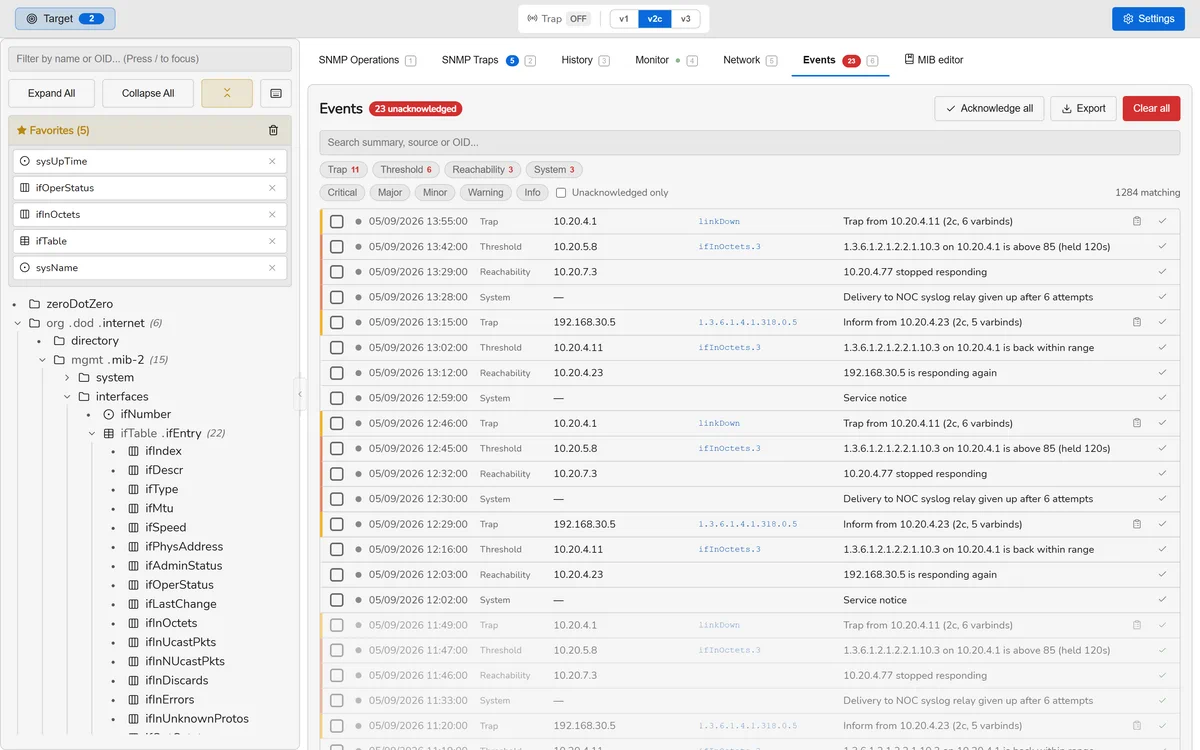
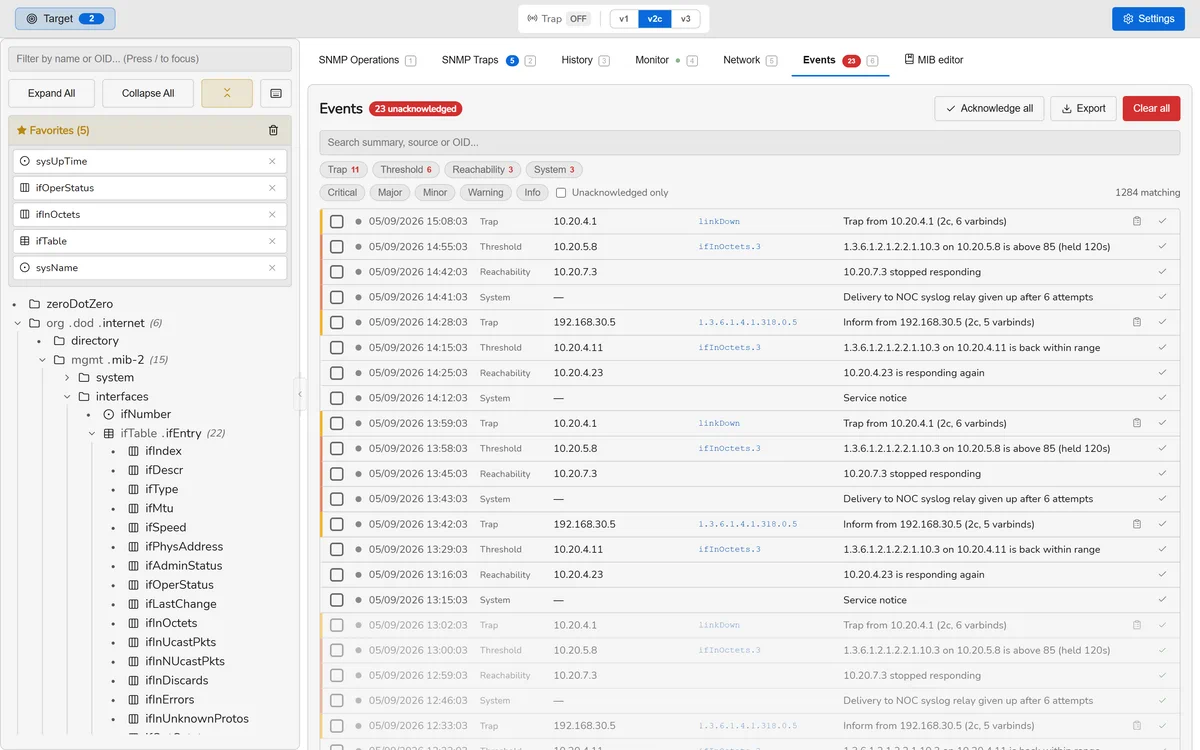
Carry every copy of an address together in the event fixture
The journal screenshot showed 10.20.4.1 in the source column beside "Trap from
10.20.4.11" in the next one, and 10.20.7.3 beside "10.20.4.77 stopped
responding". EventsPanel does not render the `summary` field the fixture was
rewriting — it builds its text from `titleKey` and `params`, and `params.source`
still held the address the template was written with.

An SNMP tool's own screenshot disagreeing with itself about an address is the
first thing a reader who knows SNMP would notice, so every copy now travels
together: source, params, summary and dedupKey.

diff --git a/frontend/screenshots/bridge/dynamic.js b/frontend/screenshots/bridge/dynamic.js
@@ -70,10 +70,23 @@ function buildJournal() {
                    '10.20.5.8', '192.168.30.5', '10.20.4.42', '10.20.7.3'];
     const source = base.source ? fleet[(i * 3 + 1) % fleet.length] : base.source;
 
+    // `summary` is not what the panel renders. EventsPanel builds its text from
+    // `titleKey` and `params`, so changing the source column alone put
+    // "10.20.4.1" in one column beside "Trap from 10.20.4.11" in the next —
+    // which is precisely the kind of thing a reader who knows SNMP notices
+    // first. Every copy of the address travels together.
+    const swap = (text) => (base.source ? String(text).split(base.source).join(source) : text);
+    const params = {};
+    for (const [k, v] of Object.entries(base.params || {})) {
+      params[k] = typeof v === 'string' ? swap(v) : v;
+    }
+
     items.push({
       ...base,
       source,
-      summary: base.source ? String(base.summary).split(base.source).join(source) : base.summary,
+      params,
+      summary: swap(base.summary),
+      dedupKey: swap(base.dedupKey),
       seq: seq--,
       id: `${base.id.slice(0, 24)}-${String(i).padStart(2, '0')}`,
       ts: new Date(now - minutesBack * 60000).toISOString(),
